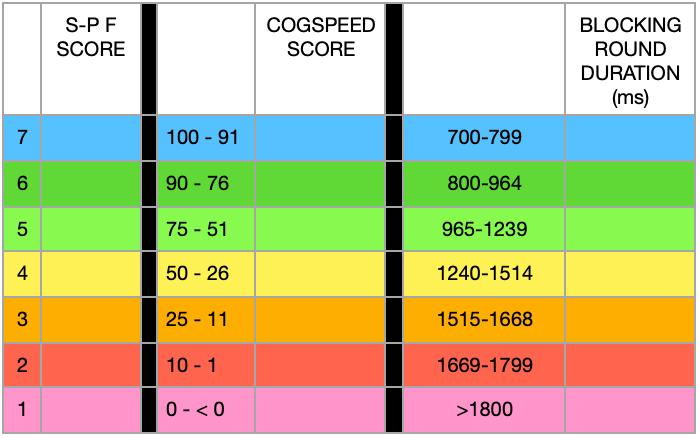
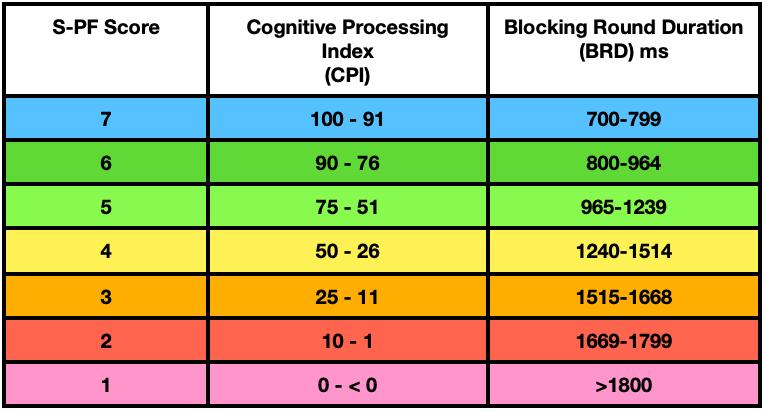
style: Make the borders thicker

diff --git a/src/ui/handler.ts b/src/ui/handler.ts
@@ -184,7 +184,7 @@ export class CogSpeedGraphicsHandler {
     // First column, SPF
     const headerBoxSPF = new Graphics();
     headerBoxSPF.beginFill(0xffffff);
-    headerBoxSPF.lineStyle(2, 0xafafaf);
+    headerBoxSPF.lineStyle(4, 0xafafaf);
     headerBoxSPF.drawRect(marginLeft, yPos, width, height);
 
     const headerTextSPF = new Text("S-PF Score", {fill: 0x00000, fontSize: 14})
@@ -196,14 +196,14 @@ export class CogSpeedGraphicsHandler {
     const valueBoxSPF = new Graphics();
     let colour = _spfScoreMap[spfScore];
     valueBoxSPF.beginFill(colour);
-    valueBoxSPF.lineStyle(2, 0xafafaf);
+    valueBoxSPF.lineStyle(4, 0xafafaf);
     valueBoxSPF.drawRect(marginLeft, yPos + height, width, height);
 
 
     // Second column, CPI
     const headerBoxCPI = new Graphics();
     headerBoxCPI.beginFill(0xffffff);
-    headerBoxCPI.lineStyle(2, 0xafafaf);
+    headerBoxCPI.lineStyle(4, 0xafafaf);
     headerBoxCPI.drawRect(marginLeft + width, yPos, width, height);
 
     const headerTextCPI = new Text("CogSpeed Score", {fill: 0x00000, fontSize: 14})
@@ -215,13 +215,13 @@ export class CogSpeedGraphicsHandler {
     const valueBoxCPI = new Graphics();
     colour = this._getMapValue(_cogspeedScoreMap, cpiScore);
     valueBoxCPI.beginFill(colour);
-    valueBoxCPI.lineStyle(2, 0xafafaf);
+    valueBoxCPI.lineStyle(4, 0xafafaf);
     valueBoxCPI.drawRect(marginLeft + width, yPos + height, width, height);
     
     // Third column, BRD
     const headerBoxBRD = new Graphics();
     headerBoxBRD.beginFill(0xffffff);
-    headerBoxBRD.lineStyle(2, 0xafafaf);
+    headerBoxBRD.lineStyle(4, 0xafafaf);
     headerBoxBRD.drawRect(marginLeft + width * 2, yPos, width, height);
 
     const headerTextBRD = new Text("BRD", {fill: 0x00000, fontSize: 14})
@@ -233,7 +233,7 @@ export class CogSpeedGraphicsHandler {
     const valueBoxBRD = new Graphics();
     colour = this._getMapValue(_blockingRoundDurationMap, blockingRoundDuration);
     valueBoxBRD.beginFill(colour);
-    valueBoxBRD.lineStyle(2, 0xafafaf);
+    valueBoxBRD.lineStyle(4, 0xafafaf);
     valueBoxBRD.drawRect(marginLeft + width * 2, yPos + height, width, height);
 
 
